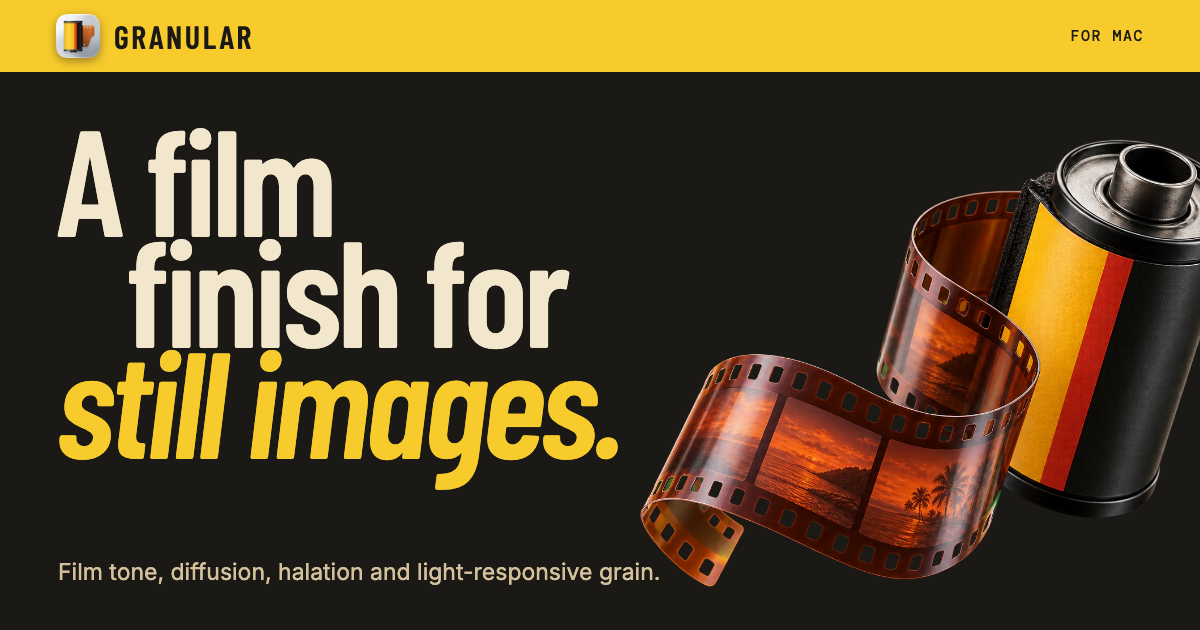
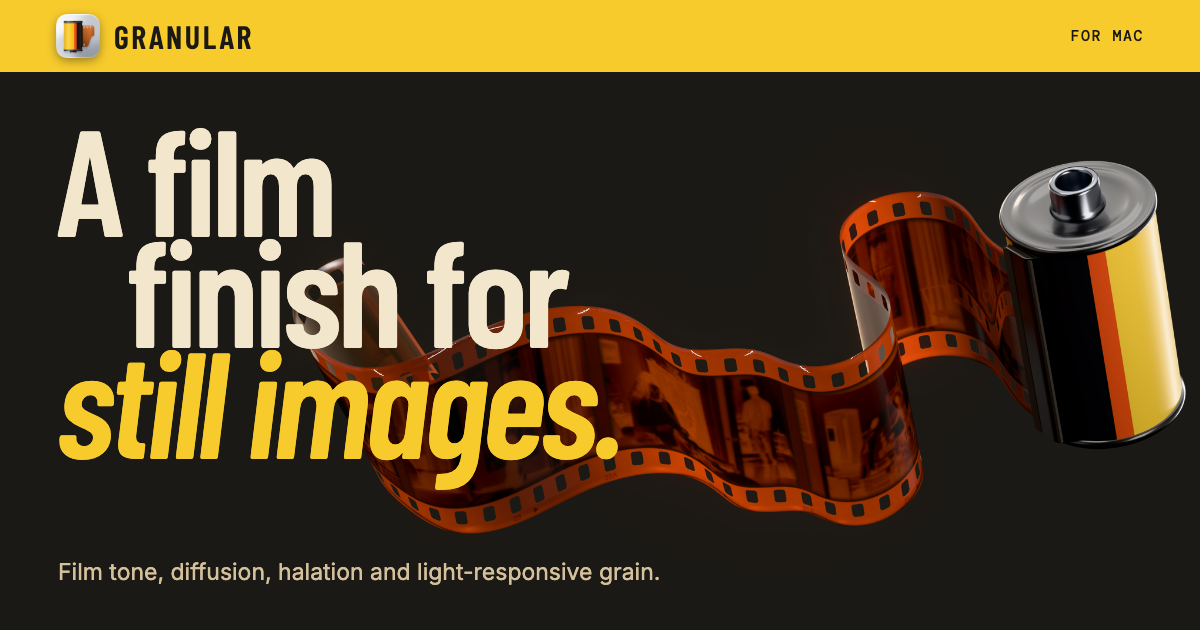
Replace the website hero with a rendered canister and negative strip
The hero is a Blender render of the icon's canister with a developed
colour-negative strip whose frames show the site's results through the
app's negative treatment. It's wider, so the headline sits over the
film, and ships as WebP at 1x and 2x (273 KB and 884 KB, was a 1.68 MB
PNG). The share card uses the new render.

Changed region(s): [[0.2467, 0.2111, 1.0, 0.9349]]

diff --git a/Website/app/globals.css b/Website/app/globals.css
@@ -74,7 +74,7 @@ em { font-weight: 500; }
   transform: rotate(-1.5deg);
   mix-blend-mode: screen;
 }
-.opening-frame img { width: 116%; max-width: none; aspect-ratio: 1; object-fit: contain; transform: translateX(-7%); }
+.opening-frame img { width: 162.45%; max-width: none; aspect-ratio: 1.357; object-fit: contain; transform: translateX(-31.1%); }
 .opening-action {
   width: min(720px, 100%);
   margin: clamp(86px, 8vw, 122px) auto 0;
@@ -245,7 +245,7 @@ footer a:hover { color: var(--yellow); }
   .opening-words { font-size: clamp(82px, 12vw, 112px); }
   .opening-words span:nth-child(2) { margin-left: 7vw; }
   .opening-words em { margin-left: 2vw; }
-  .opening-frame { width: min(86vw, 750px); top: clamp(-92px, -8vw, -48px); right: clamp(-104px, -10vw, -54px); }
+  .opening-frame { width: min(86vw, 750px); top: clamp(-150px, -14vw, -90px); right: clamp(-104px, -10vw, -54px); }
   .opening-action { width: min(500px, 76vw); margin-top: clamp(116px, 17vw, 156px); align-self: center; }
 
   .workbench-words { font-size: clamp(78px, 10.5vw, 104px); }

diff --git a/Website/app/layout.tsx b/Website/app/layout.tsx
@@ -12,13 +12,13 @@ export const metadata: Metadata = {
   openGraph: {
     title: "Granular — A film finish for still images",
     description: "A native Mac app for film tone, diffusion, halation, and light-responsive grain.",
-    images: [{ url: `${siteUrl}/share-card.png?v=1`, width: 1200, height: 630, alt: "Granular: a film finish for still images, beside a 35mm film canister" }],
+    images: [{ url: `${siteUrl}/share-card.png?v=2`, width: 1200, height: 630, alt: "Granular: a film finish for still images, beside a 35mm film canister" }],
   },
   twitter: {
     card: "summary_large_image",
     title: "Granular — A film finish for still images",
     description: "A native Mac app for film tone, diffusion, halation, and light-responsive grain.",
-    images: [`${siteUrl}/share-card.png?v=1`],
+    images: [`${siteUrl}/share-card.png?v=2`],
   },
   icons: {
     icon: { url: asset("/favicon.png?v=11"), type: "image/png", sizes: "64x64" },

diff --git a/Website/app/page.tsx b/Website/app/page.tsx
@@ -25,7 +25,7 @@ export default function Home() {
           <span>Give your</span><span>photos a</span><em>film-like finish.</em>
         </div>
         <figure className="opening-frame" data-parallax="-24">
-          <img src={asset("/film-canister-hero.png")} alt="A 35mm film canister with a curling strip of film" />
+          <img src={asset("/film-canister-hero.webp")} srcSet={`${asset("/film-canister-hero.webp")} 1x, ${asset("/film-canister-hero-2x.webp")} 2x`} alt="A 35mm film canister with a curling strip of colour negative film" />
         </figure>
         <div className="opening-action">
           <p>A native macOS app for adding film-like halation, grain, and more to your images.</p>
